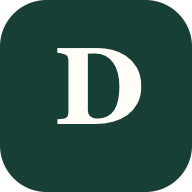
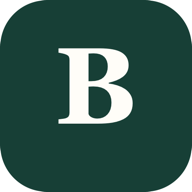
Rename app to Bro's Ledger

diff --git a/app/ledger-app.tsx b/app/ledger-app.tsx
@@ -27,12 +27,14 @@ type ActivityView = "both" | "expense" | "income";
 type ActivityWeeks = 8 | 16 | 26;
 type ThemePreference = "system" | "light" | "dark";
 
-const themePreferenceKey = "daylight-ledger:theme:v1";
+const themePreferenceKey = "bros-ledger:theme:v1";
+const legacyThemePreferenceKey = "daylight-ledger:theme:v1";
 
 const readThemePreference = (): ThemePreference => {
   if (typeof window === "undefined") return "system";
   try {
-    const saved = window.localStorage.getItem(themePreferenceKey);
+    const saved = window.localStorage.getItem(themePreferenceKey) ?? window.localStorage.getItem(legacyThemePreferenceKey);
+    if (saved) window.localStorage.setItem(themePreferenceKey, saved);
     return saved === "light" || saved === "dark" ? saved : "system";
   } catch {
     return "system";
@@ -52,7 +54,8 @@ type ReportChartPreferences = {
   activityFilterOutliers: boolean;
 };
 
-const reportChartPreferencesKey = "daylight-ledger:report-chart-preferences:v1";
+const reportChartPreferencesKey = "bros-ledger:report-chart-preferences:v1";
+const legacyReportChartPreferencesKey = "daylight-ledger:report-chart-preferences:v1";
 const defaultReportChartPreferences: ReportChartPreferences = {
   explorerType: "expense",
   explorerGroup: "day",
@@ -69,7 +72,9 @@ const defaultReportChartPreferences: ReportChartPreferences = {
 const readReportChartPreferences = (): ReportChartPreferences => {
   if (typeof window === "undefined") return defaultReportChartPreferences;
   try {
-    const value = JSON.parse(window.localStorage.getItem(reportChartPreferencesKey) ?? "{}") as Partial<ReportChartPreferences>;
+    const stored = window.localStorage.getItem(reportChartPreferencesKey) ?? window.localStorage.getItem(legacyReportChartPreferencesKey);
+    if (stored) window.localStorage.setItem(reportChartPreferencesKey, stored);
+    const value = JSON.parse(stored ?? "{}") as Partial<ReportChartPreferences>;
     return {
       explorerType: value.explorerType === "income" ? "income" : "expense",
       explorerGroup: value.explorerGroup === "month" || value.explorerGroup === "year" ? value.explorerGroup : "day",
@@ -301,7 +306,7 @@ export function LedgerApp() {
     const url = URL.createObjectURL(blob);
     const anchor = document.createElement("a");
     anchor.href = url;
-    anchor.download = incomeHidden ? `daylight-ledger-expenses-only-${today}.csv` : `daylight-ledger-${today}.csv`;
+    anchor.download = incomeHidden ? `bros-ledger-expenses-only-${today}.csv` : `bros-ledger-${today}.csv`;
     anchor.click();
     URL.revokeObjectURL(url);
     setNotice(incomeHidden ? "Expense-only CSV exported. Income remains hidden." : "CSV exported.");
@@ -348,7 +353,7 @@ export function LedgerApp() {
     <main className="app-shell">
       <aside className="sidebar">
         <button className="brand" onClick={() => setView("overview")} aria-label="Go to overview">
-          <span className="brand-mark">D</span><span>Daylight Ledger</span>
+          <span className="brand-mark">B</span><span>Bro&apos;s Ledger</span>
         </button>
         <nav className="main-nav" aria-label="Main navigation">
           <NavItem active={view === "overview"} icon="⌂" label="Today" onClick={() => setView("overview")} />
@@ -628,7 +633,7 @@ function ReportsPanel({ transactions, selectedDate, currency, categoryEmoji, can
 
   const shareExplorer = async () => {
     const text = `${effectiveExplorerType === "expense" ? "Expenditure" : "Income"} total for ${explorerPeriodMeta.label.toLowerCase()}: ${money(explorerTotal, currency)}. Highest ${money(explorerHighest, currency)}, lowest ${money(explorerLowest, currency)}, average ${money(explorerAverage, currency)}.`;
-    if (navigator.share) await navigator.share({ title: "Daylight Ledger report", text });
+    if (navigator.share) await navigator.share({ title: "Bro's Ledger report", text });
     else await navigator.clipboard.writeText(text);
     setShareStatus(navigator.share ? "Shared" : "Copied");
     window.setTimeout(() => setShareStatus(""), 1800);
@@ -807,8 +812,8 @@ function PinGate({ onAuthenticated }: { onAuthenticated: (role: LedgerRole) => v
 
   return <main className="auth-shell">
     <section className="auth-card">
-      <div className="auth-mark">D</div>
-      <p className="eyebrow">Daylight Ledger</p>
+      <div className="auth-mark">B</div>
+      <p className="eyebrow">Bro&apos;s Ledger</p>
       <h1>Your family ledger,<br />kept private.</h1>
       <p className="auth-copy">Enter your five-digit PIN to continue. Your access level is selected automatically.</p>
       <form onSubmit={submit}>
@@ -1039,7 +1044,7 @@ function PersonalizationPanel({ categories, incomeHidden, themePreference, onThe
   return <div className="personalization-grid">
     <section className="theme-control-card">
       <div className="section-heading"><div><p>Appearance</p><h2>Theme</h2></div><span>Saved on this device</span></div>
-      <p className="theme-control-copy">Choose a fixed appearance or let Daylight Ledger follow your system setting.</p>
+      <p className="theme-control-copy">Choose a fixed appearance or let Bro&apos;s Ledger follow your system setting.</p>
       <div className="theme-options" role="radiogroup" aria-label="Application theme">
         {(["system", "light", "dark"] as ThemePreference[]).map((preference) => <button type="button" role="radio" aria-checked={themePreference === preference} className={themePreference === preference ? "active" : ""} key={preference} onClick={() => onThemeChange(preference)}><span aria-hidden="true">{preference === "system" ? "◐" : preference === "light" ? "☀" : "◑"}</span><strong>{preference[0].toUpperCase() + preference.slice(1)}</strong><small>{preference === "system" ? "Follow this device" : preference === "light" ? "Always light" : "Always dark"}</small></button>)}
       </div>

diff --git a/app/layout.tsx b/app/layout.tsx
@@ -2,14 +2,14 @@ import type { Metadata } from "next";
 import { headers } from "next/headers";
 import "./globals.css";
 
-const themeInitScript = `(function(){try{var key="daylight-ledger:theme:v1";var value=localStorage.getItem(key);var preference=value==="light"||value==="dark"?value:"system";var resolved=preference==="system"?(matchMedia("(prefers-color-scheme: dark)").matches?"dark":"light"):preference;document.documentElement.dataset.theme=resolved;document.documentElement.dataset.themePreference=preference;}catch(e){document.documentElement.dataset.theme=matchMedia("(prefers-color-scheme: dark)").matches?"dark":"light";}})();`;
+const themeInitScript = `(function(){try{var key="bros-ledger:theme:v1";var legacyKey="daylight-ledger:theme:v1";var value=localStorage.getItem(key)||localStorage.getItem(legacyKey);if(value)localStorage.setItem(key,value);var preference=value==="light"||value==="dark"?value:"system";var resolved=preference==="system"?(matchMedia("(prefers-color-scheme: dark)").matches?"dark":"light"):preference;document.documentElement.dataset.theme=resolved;document.documentElement.dataset.themePreference=preference;}catch(e){document.documentElement.dataset.theme=matchMedia("(prefers-color-scheme: dark)").matches?"dark":"light";}})();`;
 
 export async function generateMetadata(): Promise<Metadata> {
   const requestHeaders = await headers();
   const host = requestHeaders.get("x-forwarded-host") ?? requestHeaders.get("host") ?? "localhost:3000";
   const protocol = requestHeaders.get("x-forwarded-proto") ?? (host.startsWith("localhost") ? "http" : "https");
   const origin = `${protocol}://${host}`;
-  const title = "Daylight Ledger · Personal finance";
+  const title = "Bro's Ledger · Personal finance";
   const description = "A calm personal ledger for everyday life under southern skies.";
   const image = `${origin}/og.png`;
   return {
@@ -21,7 +21,7 @@ export async function generateMetadata(): Promise<Metadata> {
       shortcut: "/favicon.svg",
       apple: "/icon-192.png",
     },
-    openGraph: { title, description, type: "website", images: [{ url: image, width: 2184, height: 941, alt: "Daylight Ledger" }] },
+    openGraph: { title, description, type: "website", images: [{ url: image, width: 1672, height: 941, alt: "Bro's Ledger" }] },
     twitter: { card: "summary_large_image", title, description, images: [image] },
   };
 }

diff --git a/app/ledger-auth.ts b/app/ledger-auth.ts
@@ -16,7 +16,8 @@ type LedgerEnv = typeof env & {
   SESSION_SECRET?: string;
 };
 
-export const SESSION_COOKIE = "daylight_session";
+export const SESSION_COOKIE = "bros_ledger_session";
+export const LEGACY_SESSION_COOKIE = "daylight_session";
 export const SESSION_MAX_AGE = 60 * 60 * 24 * 7;
 
 const encoder = new TextEncoder();
@@ -88,7 +89,7 @@ export async function createSessionToken(role: LedgerRole) {
 
 export async function readSession(request: NextRequest): Promise<SessionPayload | null> {
   try {
-    const token = request.cookies.get(SESSION_COOKIE)?.value;
+    const token = request.cookies.get(SESSION_COOKIE)?.value ?? request.cookies.get(LEGACY_SESSION_COOKIE)?.value;
     if (!token) return null;
     const [encodedPayload, encodedSignature, extra] = token.split(".");
     if (!encodedPayload || !encodedSignature || extra) return null;

diff --git a/app/api/transactions/route.ts b/app/api/transactions/route.ts
@@ -134,7 +134,11 @@ export async function POST(request: NextRequest) {
       VALUES (?, ?, ?, ?, ?, ?, ?, ?, ?, ?, ?)`)
       .bind(item.id, item.occurredAt, item.type, item.amountCents, item.currency, item.merchant, item.category, item.account, item.note, JSON.stringify(item.tags), item.source)));
     return NextResponse.json({
-      transactions: transactions.map(({ merchant: _merchant, ...item }) => item),
+      transactions: transactions.map((item) => {
+        const publicTransaction = { ...item };
+        Reflect.deleteProperty(publicTransaction, "merchant");
+        return publicTransaction;
+      }),
       count: transactions.length,
     }, { status: 201 });
   } catch (error) {

diff --git a/app/api/auth/logout/route.ts b/app/api/auth/logout/route.ts
@@ -1,11 +1,18 @@
 import { NextResponse } from "next/server";
-import { SESSION_COOKIE } from "../../../ledger-auth";
+import { LEGACY_SESSION_COOKIE, SESSION_COOKIE } from "../../../ledger-auth";
 
 export const dynamic = "force-dynamic";
 
 export async function POST() {
   const response = NextResponse.json({ authenticated: false });
   response.cookies.set(SESSION_COOKIE, "", {
+    httpOnly: true,
+    secure: true,
+    sameSite: "strict",
+    path: "/",
+    maxAge: 0,
+  });
+  response.cookies.set(LEGACY_SESSION_COOKIE, "", {
     httpOnly: true,
     secure: true,
     sameSite: "strict",

diff --git a/app/manifest.ts b/app/manifest.ts
@@ -2,8 +2,8 @@ import type { MetadataRoute } from "next";
 
 export default function manifest(): MetadataRoute.Manifest {
   return {
-    name: "Daylight Ledger",
-    short_name: "Daylight Ledger",
+    name: "Bro's Ledger",
+    short_name: "Bro's Ledger",
     description: "A calm personal ledger for everyday life under southern skies.",
     display: "standalone",
     background_color: "#FFF9F0",

diff --git a/app/page.tsx b/app/page.tsx
@@ -2,7 +2,7 @@ import type { Metadata } from "next";
 import { LedgerApp } from "./ledger-app";
 
 export const metadata: Metadata = {
-  title: "Daylight Ledger · Personal finance",
+  title: "Bro's Ledger · Personal finance",
   description: "A calm personal ledger for everyday life under southern skies.",
 };
 

diff --git a/README.md b/README.md
@@ -1,98 +1,33 @@
-# vinext-starter
+# Bro's Ledger
 
-A clean full-stack starter running on
-[vinext](https://github.com/cloudflare/vinext), with optional Cloudflare D1 and
-Drizzle support.
+Bro's Ledger is a private, responsive personal-finance ledger built with Next.js, vinext, and Cloudflare D1. It includes quick transaction entry, category and account editing, interactive reports, CSV export, installable PWA icons, light/dark themes, and an owner-controlled income privacy mode.
 
-## Prerequisites
+## Run locally
 
-- Node.js `>=22.13.0`
-
-## Quick Start
+Requirements: Node.js 22.13 or newer.
 
 ```bash
 npm install
 npm run dev
-npm run build
 ```
 
-This starter does not use `wrangler.jsonc`.
+Open the local URL printed in the terminal. The local Cloudflare runtime stores its D1 data under `.wrangler/`, which is excluded from Git.
 
-## Included Shape
+## Verify a change
 
-- edit site code under `app/`
-- `.openai/hosting.json` declares optional Sites D1 and R2 bindings
-- `vite.config.ts` simulates declared bindings for local development
-- `db/schema.ts` starts intentionally empty
-- `examples/d1/` contains an optional D1 example surface
-- `drizzle.config.ts` supports local migration generation when needed
-
-## Workspace Auth Headers
-
-OpenAI workspace sites can read the current user's email from
-`oai-authenticated-user-email`.
-
-SIWC-authenticated workspace sites may also receive
-`oai-authenticated-user-full-name` when the user's SIWC profile has a non-empty
-`name` claim. The full-name value is percent-encoded UTF-8 and is accompanied by
-`oai-authenticated-user-full-name-encoding: percent-encoded-utf-8`.
-
-Treat the full name as optional and fall back to email when it is absent:
-
-```tsx
-import { headers } from "next/headers";
-
-export default async function Home() {
-  const requestHeaders = await headers();
-  const email = requestHeaders.get("oai-authenticated-user-email");
-  const encodedFullName = requestHeaders.get("oai-authenticated-user-full-name");
-  const fullName =
-    encodedFullName &&
-    requestHeaders.get("oai-authenticated-user-full-name-encoding") ===
-      "percent-encoded-utf-8"
-      ? decodeURIComponent(encodedFullName)
-      : null;
-
-  const displayName = fullName ?? email;
-  // ...
-}
+```bash
+npm test
+npm run lint
 ```
 
-## Optional Dispatch-Owned ChatGPT Sign-In
+## Cloudflare deployment
 
-Import the ready-to-use helpers from `app/chatgpt-auth.ts` when the site needs
-optional or required ChatGPT sign-in:
+The production Worker needs:
 
-- Use `getChatGPTUser()` for optional signed-in UI.
-- Use `requireChatGPTUser(returnTo)` for server-rendered pages that should send
-  anonymous visitors through Sign in with ChatGPT.
-- Use `chatGPTSignInPath(returnTo)` and `chatGPTSignOutPath(returnTo)` for
-  browser links or actions.
-- Pass a same-origin relative `returnTo` path for the destination after sign-in
-  or sign-out. The helper validates and safely encodes it.
-- Mark protected pages with `export const dynamic = "force-dynamic"` because
-  they depend on per-request identity headers.
+- a D1 database bound as `DB`
+- encrypted secrets named `OWNER_PIN`, `FAMILY_PIN`, and `SESSION_SECRET`
+- Node.js compatibility enabled
 
-Dispatch owns `/signin-with-chatgpt`, `/signout-with-chatgpt`, `/callback`, the
-OAuth cookies, and identity header injection. Do not implement app routes for
-those reserved paths. Routes that do not import and call the helper remain
-anonymous-compatible.
+`OWNER_PIN` and `FAMILY_PIN` must each be five digits. `SESSION_SECRET` should be a long random value and must never be committed to Git.
 
-SIWC establishes identity only; it does not prove workspace membership. Use the
-Sites hosting platform's access policy controls for workspace-wide restrictions,
-or enforce explicit server-side membership or allowlist checks.
-
-Use SIWC for account pages, user-specific dashboards, saved records, and write
-actions tied to the current ChatGPT user. Leave public content anonymous.
-
-## Useful Commands
-
-- `npm run dev`: start local development
-- `npm run build`: verify the vinext build output
-- `npm test`: build the starter and verify its rendered loading skeleton
-- `npm run db:generate`: generate Drizzle migrations after schema changes
-
-## Learn More
-
-- [vinext Documentation](https://github.com/cloudflare/vinext)
-- [Drizzle D1 Guide](https://orm.drizzle.team/docs/get-started/d1-new)
+The application creates and upgrades its ledger tables on first use. Cloudflare's Git integration can deploy this repository after its Worker configuration and D1 database ID have been added.
